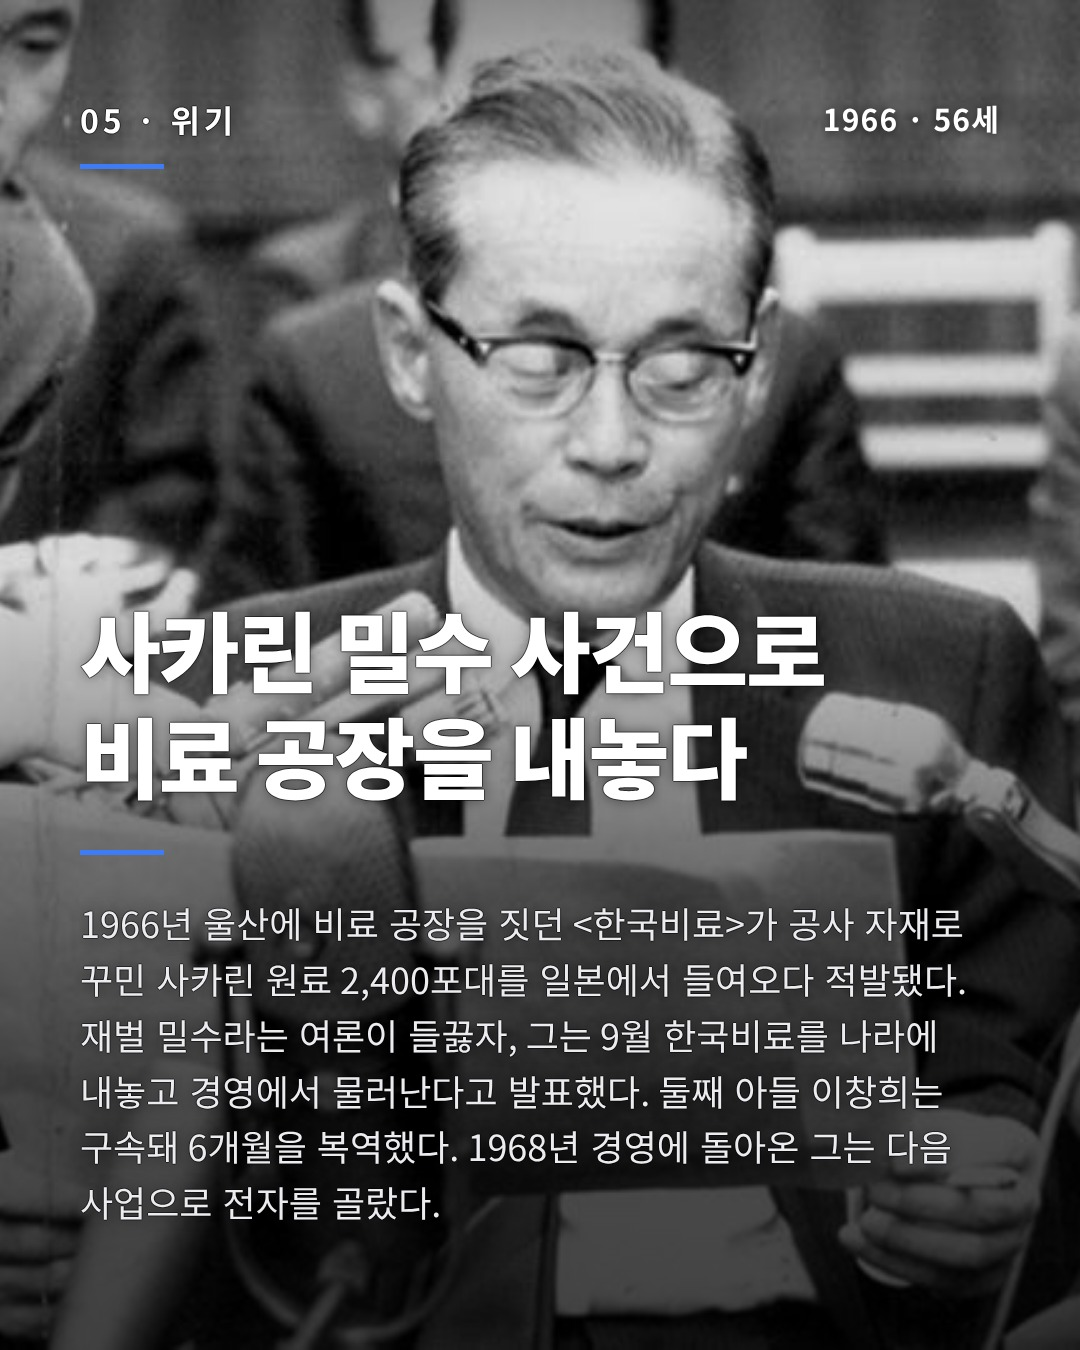
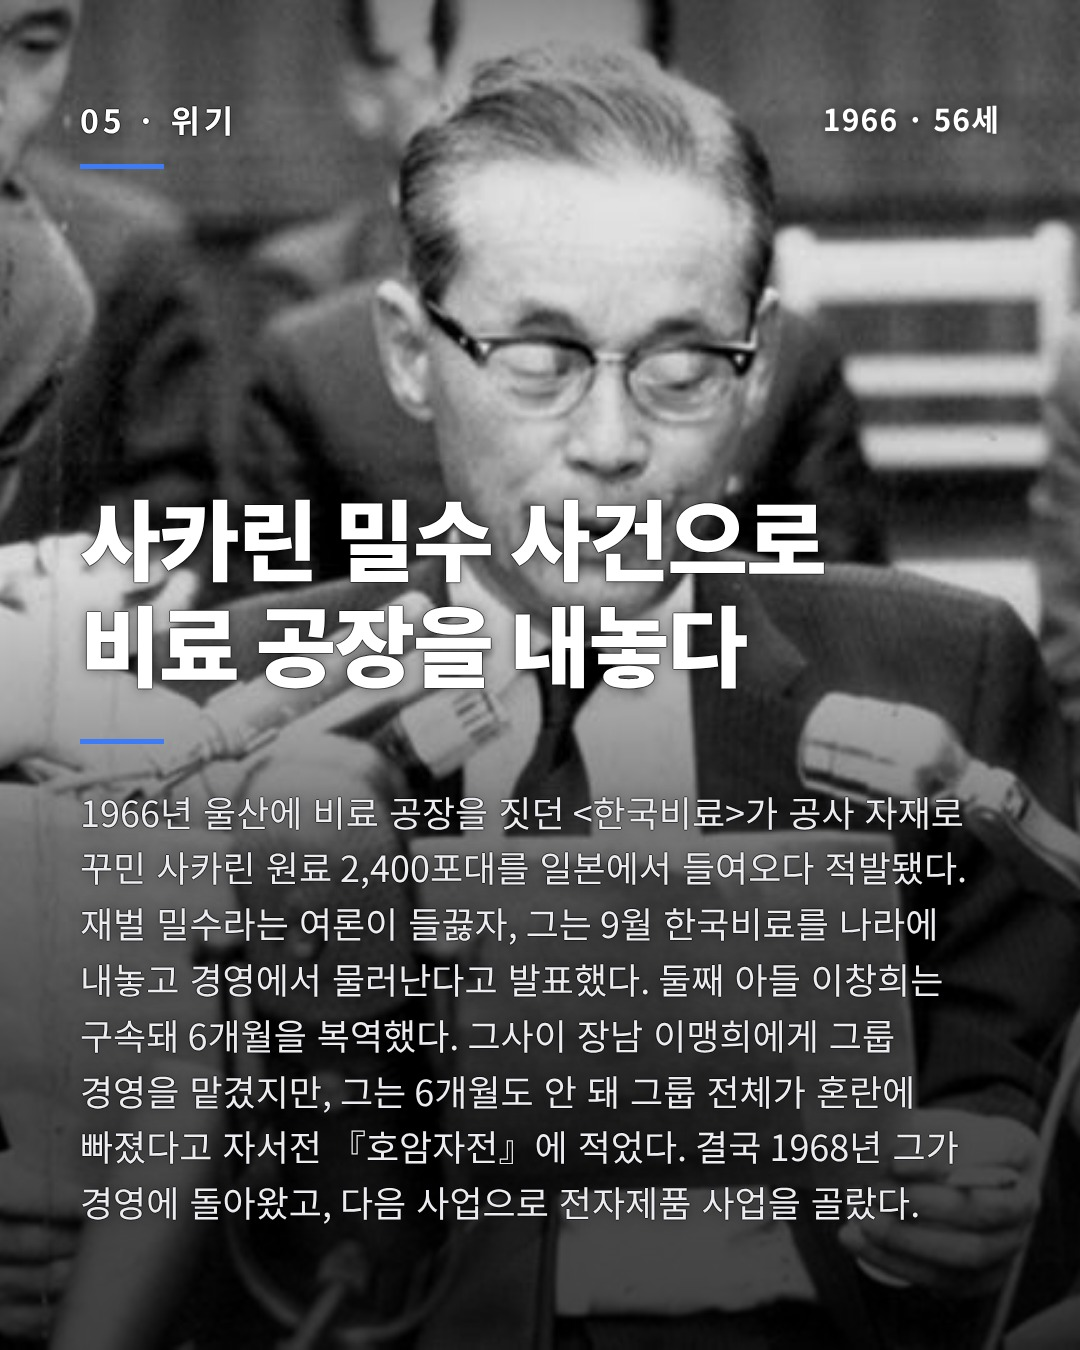
#17 원고 수정(79ead27) 재렌더·내보내기, 내보내기 스크립트 추가
Claude-Session: https://claude.ai/code/session_0174UmVuUF73TP9F2KNQyC6e

Changed region(s): [[0.0611, 0.3733, 0.8861, 0.9022]]

diff --git a/publisher/export.py b/publisher/export.py
@@ -1,0 +1,21 @@
+#!/usr/bin/env python3
+"""렌더 → posts/NN-final 내보내기 → schedule.json 새로 채움.
+  python3 publisher/export.py 17-samsung [14-amazon ...]
+overview는 /mnt/project-files/production/NN-overview.png에도 복사(있으면)."""
+import glob, os, shutil, subprocess, sys
+from PIL import Image
+ROOT = os.path.dirname(os.path.dirname(os.path.abspath(__file__)))
+os.chdir(ROOT)
+for e in sys.argv[1:]:
+    subprocess.run([sys.executable, "render.py", f"episodes/{e}.json"], check=True)
+    src, dst = f"out/{e}", f"posts/{e}-final"
+    os.makedirs(dst, exist_ok=True)
+    for f in glob.glob(dst + "/[0-9][0-9].jpg"):
+        os.remove(f)
+    for f in sorted(glob.glob(src + "/[0-9][0-9].png")):
+        Image.open(f).convert("RGB").save(f"{dst}/{os.path.basename(f)[:-4]}.jpg", quality=92)
+    shutil.copy(f"{src}/caption.txt", f"{dst}/caption.txt")
+    shutil.copy(f"{src}/{e}_한눈에보기.png", f"{dst}/overview.png")
+    if os.path.isdir("/mnt/project-files/production"):
+        shutil.copy(f"{dst}/overview.png", f"/mnt/project-files/production/{e}-overview.png")
+subprocess.run([sys.executable, "publisher/sched.py", "refresh"], check=True)
